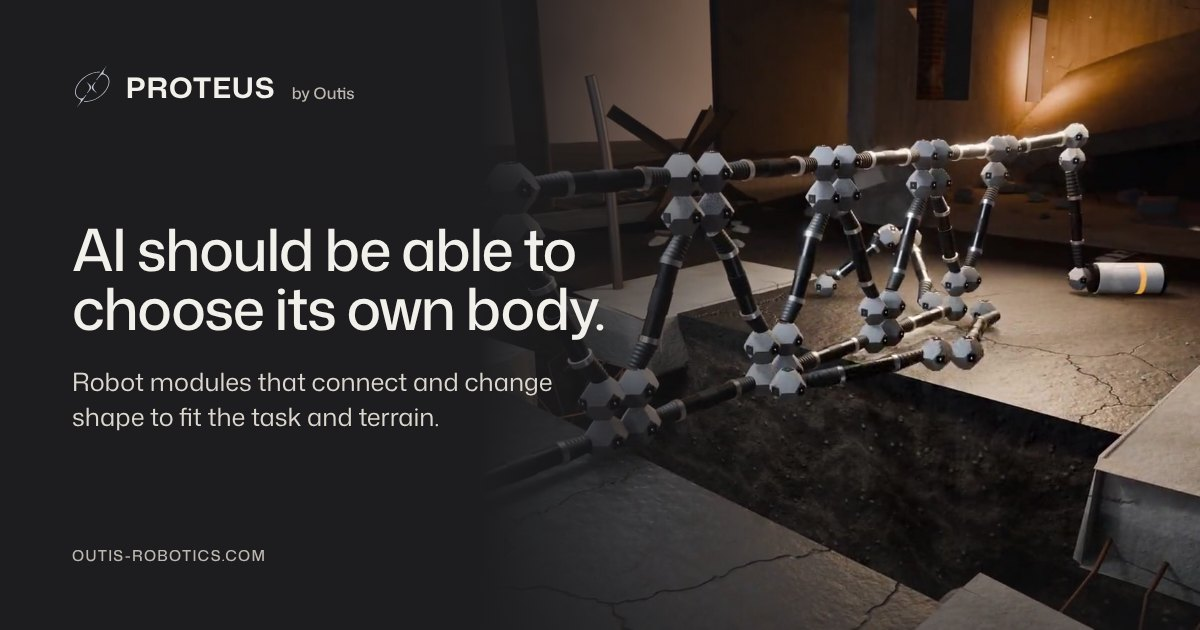
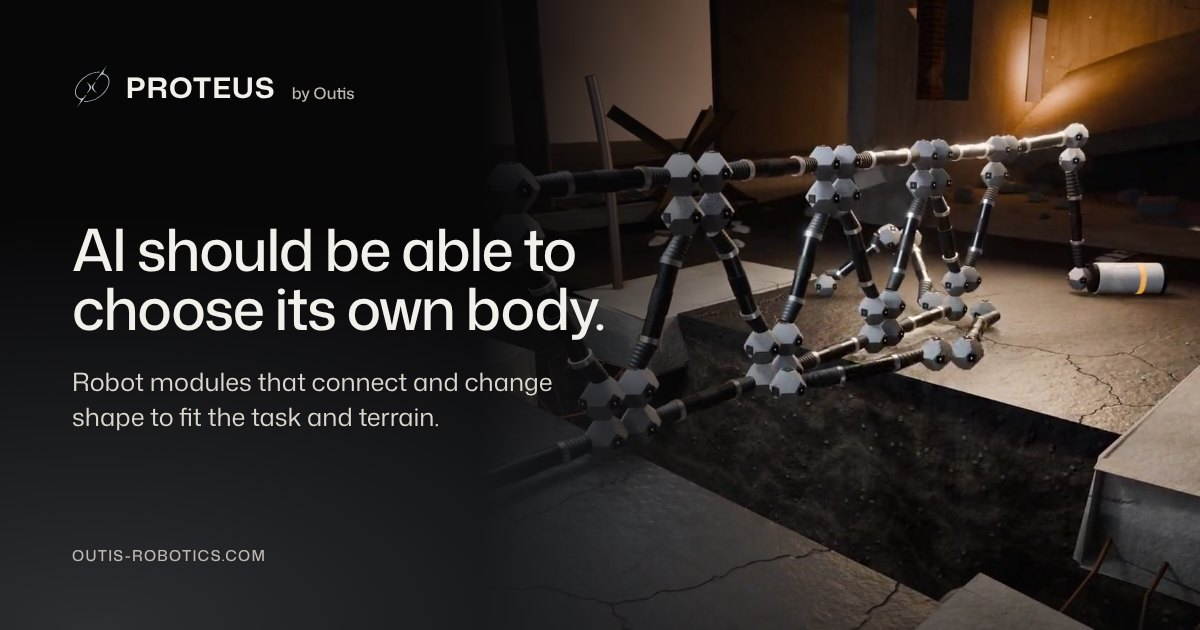
Space black as in the old contact block: deep black base with a soft graphite glow in every dark section, contact dark again; link preview with the same light
Claude-Session: https://claude.ai/code/session_011kUXctnYccCsL6ks7P2tcX

diff --git a/assets/css/site.css b/assets/css/site.css
@@ -18,7 +18,7 @@
   unicode-range: U+0100-02BA, U+02BD-02C5, U+02C7-02CC, U+02CE-02D7, U+02DD-02FF, U+0304, U+0308, U+0329, U+1D00-1DBF, U+1E00-1E9F, U+1EF2-1EFF, U+2020, U+20A0-20AB, U+20AD-20C0, U+2113, U+2C60-2C7F, U+A720-A7FF;
 }
 :root {
-  --bg: #1d1d1f;
+  --bg: #070708;
   --bg-2: #0c0d0f;
   --bg-3: #141519;
   --bg-4: #1c1e23;
@@ -94,12 +94,12 @@ p { margin: 0 0 1rem; }
 .btn--small { min-height: 40px; padding: 0 1.05rem; font-size: 0.92rem; }
 .btn--accent { background: var(--accent); color: var(--accent-ink); }
 .btn--accent:hover { background: var(--accent-2); transform: translateY(-1px); }
-.btn--ghost { border-color: var(--line-2); color: var(--ink); background: rgba(29, 29, 31, 0.35); backdrop-filter: blur(6px); }
+.btn--ghost { border-color: var(--line-2); color: var(--ink); background: rgba(7, 7, 8, 0.35); backdrop-filter: blur(6px); }
 .btn--ghost:hover { border-color: var(--ink); }
 .btn__play { width: 0; height: 0; border-left: 10px solid currentColor; border-top: 6.5px solid transparent; border-bottom: 6.5px solid transparent; }
 
 /* badges */
-.badge { display: inline-flex; align-items: center; gap: 0.45rem; font-family: var(--font-mono); font-size: 0.68rem; font-weight: 500; letter-spacing: 0.12em; text-transform: uppercase; padding: 0.42rem 0.7rem; border-radius: 5px; background: rgba(29, 29, 31, 0.72); border: 1px solid var(--line-2); color: var(--ink); backdrop-filter: blur(6px); white-space: nowrap; }
+.badge { display: inline-flex; align-items: center; gap: 0.45rem; font-family: var(--font-mono); font-size: 0.68rem; font-weight: 500; letter-spacing: 0.12em; text-transform: uppercase; padding: 0.42rem 0.7rem; border-radius: 5px; background: rgba(7, 7, 8, 0.72); border: 1px solid var(--line-2); color: var(--ink); backdrop-filter: blur(6px); white-space: nowrap; }
 .badge::before { content: ""; width: 7px; height: 7px; border-radius: 50%; background: currentColor; }
 .badge--ok { color: var(--ok); }
 .badge--concept { color: var(--concept); }
@@ -107,7 +107,7 @@ p { margin: 0 0 1rem; }
 
 /* nav */
 .nav { position: fixed; top: env(safe-area-inset-top, 0px); left: 0; right: 0; z-index: 50; transition: background-color .25s ease, border-color .25s ease; border-bottom: 1px solid transparent; }
-.nav.is-scrolled, .nav.is-open { background: rgba(29, 29, 31, 0.86); backdrop-filter: blur(12px); border-bottom-color: var(--line); }
+.nav.is-scrolled, .nav.is-open { background: rgba(7, 7, 8, 0.86); backdrop-filter: blur(12px); border-bottom-color: var(--line); }
 .nav__inner { height: var(--nav-h); display: flex; align-items: center; gap: 1.5rem; }
 .brand { display: inline-flex; align-items: center; gap: 0.6rem; text-decoration: none; color: var(--ink); }
 .brand__mark { width: 36px; height: 40px; color: #c0c7d4; }
@@ -124,7 +124,7 @@ p { margin: 0 0 1rem; }
 .nav.is-open .nav__bars::before { transform: translateY(5px) rotate(45deg); }
 .nav.is-open .nav__bars::after { transform: translateY(-5px) rotate(-45deg); }
 @media (max-width: 980px) {
-  .nav__links { position: fixed; inset: calc(var(--nav-h) + env(safe-area-inset-top, 0px)) 0 auto 0; flex-direction: column; gap: 0; background: rgba(29, 29, 31, 0.97); padding: 0.5rem max(16px, env(safe-area-inset-right, 0px)) 1.5rem max(16px, env(safe-area-inset-left, 0px)); border-bottom: 1px solid var(--line); display: none; }
+  .nav__links { position: fixed; inset: calc(var(--nav-h) + env(safe-area-inset-top, 0px)) 0 auto 0; flex-direction: column; gap: 0; background: rgba(7, 7, 8, 0.97); padding: 0.5rem max(16px, env(safe-area-inset-right, 0px)) 1.5rem max(16px, env(safe-area-inset-left, 0px)); border-bottom: 1px solid var(--line); display: none; }
   .nav.is-open .nav__links { display: flex; }
   .nav__links a { padding: 0.95rem 0; border-bottom: 1px solid var(--line); font-size: 1.15rem; color: var(--ink); }
   .nav__toggle { display: inline-block; }
@@ -134,11 +134,11 @@ p { margin: 0 0 1rem; }
 
 /* hero */
 .hero { position: relative; min-height: 100svh; display: flex; flex-direction: column; justify-content: flex-end; overflow: hidden; isolation: isolate; }
-.hero__media { position: absolute; inset: 0; z-index: -1; background: #1d1d1f url("../media/v9-hero-1600.jpg") center / cover no-repeat; }
+.hero__media { position: absolute; inset: 0; z-index: -1; background: #070708 url("../media/v9-hero-1600.jpg") center / cover no-repeat; }
 .hero__video { width: 100%; height: 100%; object-fit: cover; object-position: 60% 50%; }
 .hero__shade { position: absolute; inset: 0; background:
-  linear-gradient(180deg, rgba(29, 29, 31,0.6) 0%, rgba(29, 29, 31,0) 20%, rgba(29, 29, 31,0) 42%, rgba(29, 29, 31,0.84) 82%, var(--bg) 100%),
-  linear-gradient(90deg, rgba(29, 29, 31,0.78) 0%, rgba(29, 29, 31,0.3) 44%, rgba(29, 29, 31,0) 70%); }
+  linear-gradient(180deg, rgba(7, 7, 8,0.6) 0%, rgba(7, 7, 8,0) 20%, rgba(7, 7, 8,0) 42%, rgba(7, 7, 8,0.84) 82%, var(--bg) 100%),
+  linear-gradient(90deg, rgba(7, 7, 8,0.78) 0%, rgba(7, 7, 8,0.3) 44%, rgba(7, 7, 8,0) 70%); }
 .hero__content { padding-top: calc(var(--nav-h) + 4rem); padding-bottom: 2.2rem; }
 .hero__lead { margin-top: 1.6rem; max-width: 44ch; color: #dcd8cf; }
 .hero__actions { display: flex; flex-wrap: wrap; gap: 0.8rem; margin-top: 2.2rem; }
@@ -146,7 +146,7 @@ p { margin: 0 0 1rem; }
 .hero__note { color: var(--ink-2); }
 
 /* media toggles */
-.media-toggle { position: absolute; right: 12px; bottom: 12px; width: 40px; height: 40px; border-radius: 50%; border: 1px solid var(--line-2); background: rgba(29, 29, 31, 0.6); backdrop-filter: blur(6px); color: var(--ink); cursor: pointer; display: grid; place-items: center; opacity: 0.85; }
+.media-toggle { position: absolute; right: 12px; bottom: 12px; width: 40px; height: 40px; border-radius: 50%; border: 1px solid var(--line-2); background: rgba(7, 7, 8, 0.6); backdrop-filter: blur(6px); color: var(--ink); cursor: pointer; display: grid; place-items: center; opacity: 0.85; }
 .media-toggle:hover { opacity: 1; }
 .media-toggle span { width: 12px; height: 12px; background: currentColor; clip-path: polygon(0 0, 35% 0, 35% 100%, 0 100%, 0 0, 65% 0, 100% 0, 100% 100%, 65% 100%, 65% 0); }
 .media-toggle.is-paused span { clip-path: polygon(10% 0, 100% 50%, 10% 100%); }
@@ -201,7 +201,7 @@ p { margin: 0 0 1rem; }
 .film { margin-bottom: clamp(4rem, 2rem + 6vw, 8rem); }
 .film__frame { position: relative; aspect-ratio: 16 / 9; max-width: 100%; background: #000 url("../media/v10-film.jpg") center / cover no-repeat; overflow: hidden; border-radius: 6px; border: 1px solid var(--line); }
 .film__video { width: 100%; height: 100%; object-fit: contain; background: #000; }
-.film__play { position: absolute; inset: 0; display: flex; align-items: flex-end; justify-content: flex-start; gap: 1.2rem; padding: clamp(1rem, 0.5rem + 2vw, 2.4rem); border: 0; background: linear-gradient(180deg, rgba(29, 29, 31,0) 40%, rgba(29, 29, 31,0.78) 100%); color: var(--ink); cursor: pointer; text-align: left; font: inherit; }
+.film__play { position: absolute; inset: 0; display: flex; align-items: flex-end; justify-content: flex-start; gap: 1.2rem; padding: clamp(1rem, 0.5rem + 2vw, 2.4rem); border: 0; background: linear-gradient(180deg, rgba(7, 7, 8,0) 40%, rgba(7, 7, 8,0.78) 100%); color: var(--ink); cursor: pointer; text-align: left; font: inherit; }
 .film__icon { flex: none; width: clamp(64px, 50px + 3vw, 96px); height: clamp(64px, 50px + 3vw, 96px); border-radius: 50%; background: var(--accent); display: grid; place-items: center; box-shadow: 0 0 0 10px rgba(192, 199, 212, 0.18); transition: transform .2s ease, box-shadow .2s ease; }
 .film__icon::after { content: ""; margin-left: 6px; border-left: 22px solid var(--accent-ink); border-top: 14px solid transparent; border-bottom: 14px solid transparent; }
 .film__play:hover .film__icon { transform: scale(1.05); box-shadow: 0 0 0 14px rgba(192, 199, 212, 0.22); }
@@ -466,7 +466,7 @@ p { margin: 0 0 1rem; }
 .mp-slab { fill: #5d5952; }
 .mp-debris { fill: #36342f; }
 .mp-column { fill: #8d887f; }
-.mp-crack { fill: none; stroke: #1d1d1f; stroke-width: 1.5; }
+.mp-crack { fill: none; stroke: #070708; stroke-width: 1.5; }
 .mp-truck rect, .mp-truck circle { fill: #2b2c31; }
 .mp-truck .mp-window { fill: #111215; }
 .mp-truck .mp-stripe { fill: var(--accent); opacity: 0.75; }
@@ -611,7 +611,7 @@ p { margin: 0 0 1rem; }
 /* team background strip (bottom band of the hero) */
 .hero__foot { padding-bottom: 1.1rem; }
 .hero__content { padding-top: calc(var(--nav-h) + 2rem); }
-.logos { background: rgba(29, 29, 31, 0.8); -webkit-backdrop-filter: blur(8px); backdrop-filter: blur(8px); border-top: 1px solid var(--line); }
+.logos { background: rgba(7, 7, 8, 0.8); -webkit-backdrop-filter: blur(8px); backdrop-filter: blur(8px); border-top: 1px solid var(--line); }
 .logos__inner { display: grid; grid-template-columns: auto minmax(0, 1fr) auto; align-items: center; gap: 1rem 2.6rem;
   padding-block: 1.5rem calc(1.5rem + env(safe-area-inset-bottom, 0px)); }
 .logos__label { margin: 0; color: var(--ink); font-size: 0.82rem; text-transform: uppercase; letter-spacing: 0.16em; line-height: 1.5; }
@@ -745,7 +745,7 @@ p { margin: 0 0 1rem; }
 
 /* Phones: darker shade behind the hero copy so it stays readable over bright frames */
 @media (max-width: 760px) {
-  .hero__shade { background: linear-gradient(180deg, rgba(29, 29, 31,0.55) 0%, rgba(29, 29, 31,0.35) 18%, rgba(29, 29, 31,0.62) 38%, rgba(29, 29, 31,0.86) 62%, var(--bg) 100%); }
+  .hero__shade { background: linear-gradient(180deg, rgba(7, 7, 8,0.55) 0%, rgba(7, 7, 8,0.35) 18%, rgba(7, 7, 8,0.62) 38%, rgba(7, 7, 8,0.86) 62%, var(--bg) 100%); }
   .hero__lead { color: #ece9e2; }
 }
 
@@ -875,7 +875,7 @@ p { margin: 0 0 1rem; }
 @media (prefers-reduced-motion: reduce) { .morph__env, .morph__tab { transition: none; } .morph.is-cycling .morph__tab[aria-pressed="true"]::after { animation: none; } }
 /* condensed headlines can run larger; the nav stays solid over the light sections */
 :root { --fs-h2: clamp(2.5rem, 1.5rem + 3.6vw, 4.8rem); }
-.nav.is-scrolled, .nav.is-open { background: rgba(29, 29, 31, 0.95); }
+.nav.is-scrolled, .nav.is-open { background: rgba(7, 7, 8, 0.95); }
 .nav__links a[aria-current="page"]::before { opacity: 1; transform: none; }
 
 .brand__by { white-space: nowrap; }
@@ -932,10 +932,10 @@ button, input, select, textarea { font-family: inherit; }
 .icon-ext { display: inline-block; width: 0.62em; height: 0.62em; margin-left: 0.15em; vertical-align: 0.05em; fill: none; stroke: currentColor; stroke-width: 1.3; stroke-linecap: round; stroke-linejoin: round; }
 .film-dialog__close svg { width: 14px; height: 14px; fill: none; stroke: currentColor; stroke-width: 1.6; stroke-linecap: round; }
 
-/* Space Black: the dark sections use a deep graphite instead of near-black */
-:root {
-  --bg: #1d1d1f; --bg-2: #232326; --bg-3: #2c2c2f; --bg-4: #36363a;
-  --line: rgba(242, 240, 235, 0.12); --line-2: rgba(242, 240, 235, 0.22);
-}
-.morph__mass { fill: #18181a; }
-.morph__rubble { fill: #313135; }
+/* Space black: deep black lit by a soft graphite glow, like anodised metal under a single light.
+   Each dark section gets the light from a different corner so neighbouring sections stay apart. */
+:root { --glow: rgba(192, 199, 212, 0.2); --glow-0: rgba(192, 199, 212, 0); }
+.mission { background: radial-gradient(110% 70% at 92% 0%, var(--glow) 0%, var(--glow-0) 55%), var(--bg); }
+.firstjob { background: radial-gradient(120% 120% at 10% 100%, var(--glow) 0%, var(--glow-0) 55%), var(--bg); }
+.team { background: radial-gradient(120% 120% at 92% 0%, var(--glow) 0%, var(--glow-0) 55%), var(--bg); }
+.contact { background: radial-gradient(120% 120% at 15% 100%, rgba(192, 199, 212, 0.22) 0%, var(--glow-0) 55%), var(--bg); }

diff --git a/index.html b/index.html
@@ -6,14 +6,14 @@
 <title>Proteus by Outis – AI should be able to choose its own body</title>
 <meta name="description" content="Robot modules that connect and change shape to fit the task and terrain. Designed and built in Berlin.">
 
-<meta name="theme-color" content="#1d1d1f">
+<meta name="theme-color" content="#070708">
 <meta property="og:type" content="website">
 <meta property="og:site_name" content="Proteus by Outis">
 <meta property="og:title" content="Proteus by Outis – AI should be able to choose its own body">
 <meta property="og:description" content="Robot modules that connect and change shape to fit the task and terrain. Designed and built in Berlin.">
 <link rel="canonical" href="https://outis-robotics.com/">
 <meta property="og:url" content="https://outis-robotics.com/">
-<meta property="og:image" content="https://outis-robotics.com/assets/img/og.jpg?v=8">
+<meta property="og:image" content="https://outis-robotics.com/assets/img/og.jpg?v=9">
 <meta property="og:image:width" content="1200">
 <meta property="og:image:height" content="630">
 <meta property="og:image:alt" content="Proteus by Outis: AI should be able to choose its own body. Robot modules that connect and change shape to fit the task and terrain.">
@@ -24,7 +24,7 @@
 <link rel="shortcut icon" href="assets/img/favicon.ico">
 <link rel="preload" href="assets/fonts/mona-sans-latin-standard-normal.woff2" as="font" type="font/woff2" crossorigin>
 <link rel="preload" href="assets/media/v9-hero-1600.jpg" as="image" fetchpriority="high">
-<link rel="stylesheet" href="assets/css/site.css?v=41">
+<link rel="stylesheet" href="assets/css/site.css?v=42">
 <link rel="stylesheet" href="assets/css/vision.css?v=10">
 <script>document.documentElement.classList.add('js');</script>
 </head>
@@ -315,7 +315,7 @@
 </section>
 
 <!-- CONTACT -->
-<section class="contact paper" id="contact" aria-labelledby="contact-title">
+<section class="contact" id="contact" aria-labelledby="contact-title">
   <div class="wrap contact__grid" data-reveal>
     <p class="section-rule"><span>Contact</span></p>
     <div>

diff --git a/vision/index.html b/vision/index.html
@@ -5,14 +5,14 @@
 <meta name="viewport" content="width=device-width, initial-scale=1, viewport-fit=cover">
 <title>AI should be able to choose its own body. – Outis</title>
 <meta name="description" content="Our vision for Proteus: thousands of small modules that become whatever machine a task needs, split into teams when there is more than one task, and go to work generation by generation.">
-<meta name="theme-color" content="#1d1d1f">
+<meta name="theme-color" content="#070708">
 <link rel="canonical" href="https://outis-robotics.com/vision/">
 <meta property="og:type" content="article">
 <meta property="og:site_name" content="Outis / Proteus">
 <meta property="og:title" content="AI should be able to choose its own body.">
 <meta property="og:description" content="Smaller modules. More possible machines. Why we are redefining embodied AI.">
 <meta property="og:url" content="https://outis-robotics.com/vision/">
-<meta property="og:image" content="https://outis-robotics.com/assets/img/og.jpg?v=8">
+<meta property="og:image" content="https://outis-robotics.com/assets/img/og.jpg?v=9">
 <meta property="og:image:width" content="1200">
 <meta property="og:image:height" content="630">
 <meta property="og:image:alt" content="Proteus by Outis: AI should be able to choose its own body.">
@@ -22,7 +22,7 @@
 <link rel="apple-touch-icon" href="../assets/img/apple-touch-icon.png">
 <link rel="shortcut icon" href="../assets/img/favicon.ico">
 <link rel="preload" href="../assets/fonts/mona-sans-latin-standard-normal.woff2" as="font" type="font/woff2" crossorigin>
-<link rel="stylesheet" href="../assets/css/site.css?v=41">
+<link rel="stylesheet" href="../assets/css/site.css?v=42">
 <link rel="stylesheet" href="../assets/css/vision.css?v=10">
 </head>
 <body class="vision-page">

diff --git a/impressum.html b/impressum.html
@@ -7,7 +7,7 @@
 
 <link rel="icon" href="assets/img/favicon.svg" type="image/svg+xml">
 <link rel="icon" href="assets/img/favicon-32.png" sizes="32x32" type="image/png">
-<link rel="stylesheet" href="assets/css/site.css?v=41">
+<link rel="stylesheet" href="assets/css/site.css?v=42">
 </head>
 <body>
 <header class="nav is-scrolled">

diff --git a/privacy.html b/privacy.html
@@ -7,7 +7,7 @@
 
 <link rel="icon" href="assets/img/favicon.svg" type="image/svg+xml">
 <link rel="icon" href="assets/img/favicon-32.png" sizes="32x32" type="image/png">
-<link rel="stylesheet" href="assets/css/site.css?v=41">
+<link rel="stylesheet" href="assets/css/site.css?v=42">
 </head>
 <body>
 <header class="nav is-scrolled">
